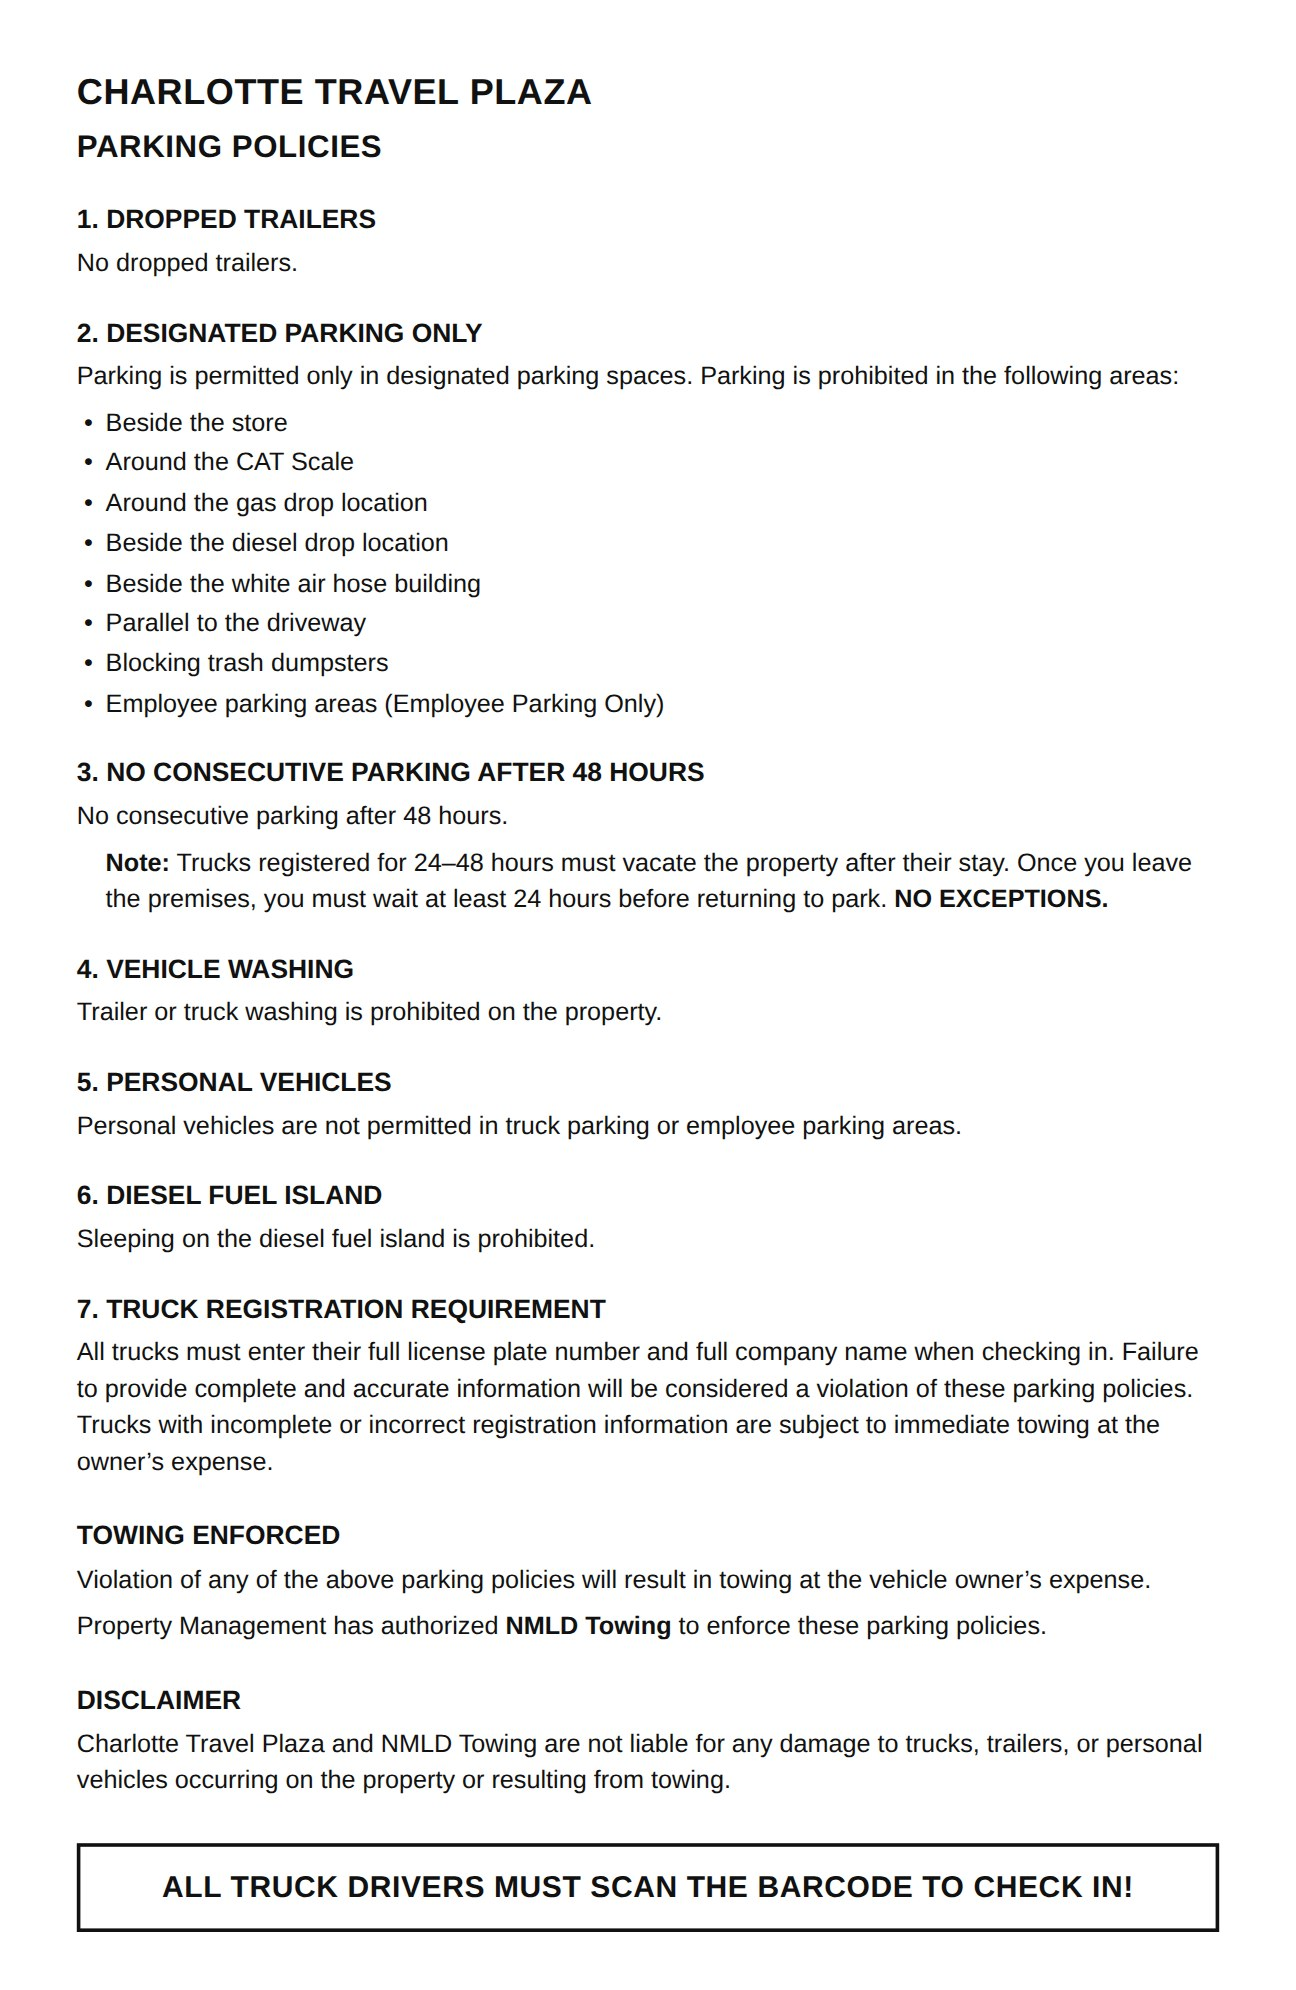
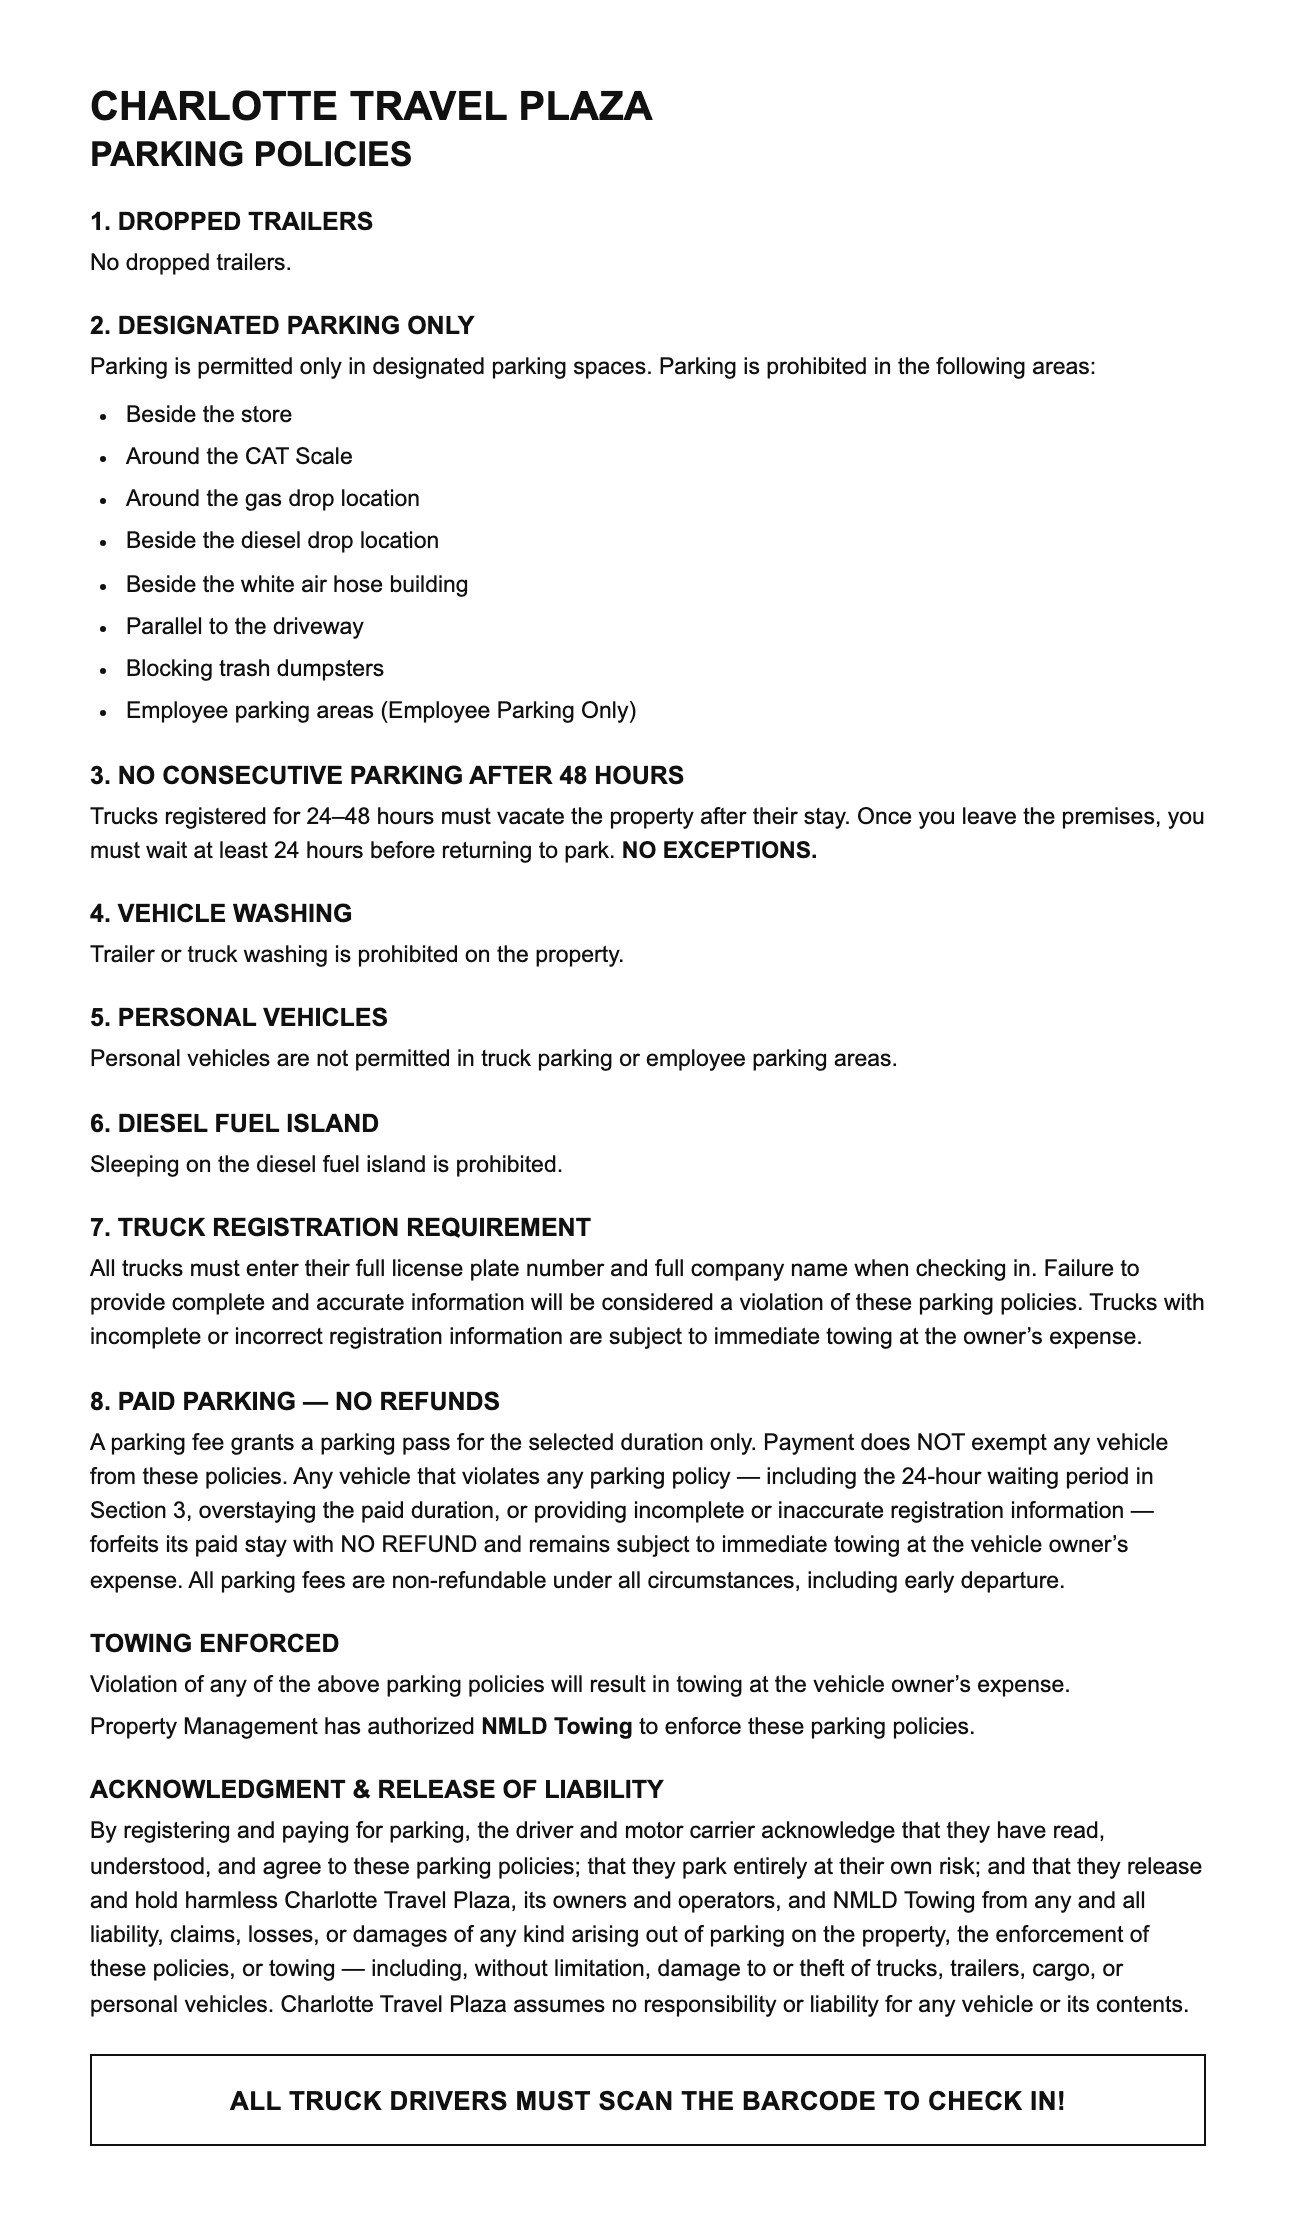
chore(plaza): regenerate rules document image with section 8 + release
Charlotte Travel Plaza policy DB text now includes section 8 (Paid
Parking — No Refunds) and an expanded Acknowledgment & Release of
Liability closing block; the printed-document image on the QR
registration page was stale. Regenerated from a self-contained HTML
source (charlotte-travel-plaza.src.html) rendered via Playwright to
match the prior document's look. Old image kept for reference as
charlotte-travel-plaza.2026-04.jpg.

Claude-Session: https://claude.ai/code/session_012CxJpLkSpNFeXLVTrUfhWo

diff --git a/frontend/policy/charlotte-travel-plaza.src.html b/frontend/policy/charlotte-travel-plaza.src.html
@@ -1,0 +1,139 @@
+<!DOCTYPE html>
+<html>
+<head>
+<meta charset="utf-8">
+<style>
+  * { box-sizing: border-box; }
+  html, body {
+    margin: 0;
+    padding: 0;
+    background: #FFFFFF;
+  }
+  body {
+    width: 648px; /* rendered at deviceScaleFactor 2 -> 1296px physical, matching prior doc width */
+    font-family: Arial, Helvetica, sans-serif;
+    color: #111111;
+    padding: 42px 45px 45px 45px;
+  }
+  h1 {
+    font-size: 20px;
+    font-weight: 700;
+    margin: 0 0 3px 0;
+    letter-spacing: 0.1px;
+  }
+  h2.subtitle {
+    font-size: 17px;
+    font-weight: 700;
+    margin: 0 0 16px 0;
+  }
+  .section {
+    margin: 0 0 16px 0;
+  }
+  .section h3 {
+    font-size: 12.5px;
+    font-weight: 700;
+    margin: 0 0 5px 0;
+  }
+  .section p {
+    font-size: 11.5px;
+    line-height: 1.5;
+    margin: 0 0 4px 0;
+  }
+  ul.rules {
+    margin: 6px 0 0 0;
+    padding: 0 0 0 18px;
+    list-style: disc;
+  }
+  ul.rules li {
+    font-size: 11.5px;
+    line-height: 1.5;
+    margin-bottom: 4px;
+  }
+  .caps {
+    text-transform: uppercase;
+  }
+  .box {
+    border: 1.5px solid #111111;
+    padding: 13px 16px;
+    margin-top: 12px;
+    text-align: center;
+  }
+  .box strong {
+    font-size: 13px;
+    font-weight: 700;
+    letter-spacing: 0.2px;
+  }
+</style>
+</head>
+<body>
+
+  <h1 class="caps">Charlotte Travel Plaza</h1>
+  <h2 class="subtitle caps">Parking Policies</h2>
+
+  <div class="section">
+    <h3 class="caps">1. Dropped Trailers</h3>
+    <p>No dropped trailers.</p>
+  </div>
+
+  <div class="section">
+    <h3 class="caps">2. Designated Parking Only</h3>
+    <p>Parking is permitted only in designated parking spaces. Parking is prohibited in the following areas:</p>
+    <ul class="rules">
+      <li>Beside the store</li>
+      <li>Around the CAT Scale</li>
+      <li>Around the gas drop location</li>
+      <li>Beside the diesel drop location</li>
+      <li>Beside the white air hose building</li>
+      <li>Parallel to the driveway</li>
+      <li>Blocking trash dumpsters</li>
+      <li>Employee parking areas (Employee Parking Only)</li>
+    </ul>
+  </div>
+
+  <div class="section">
+    <h3 class="caps">3. No Consecutive Parking After 48 Hours</h3>
+    <p>Trucks registered for 24&ndash;48 hours must vacate the property after their stay. Once you leave the premises, you must wait at least 24 hours before returning to park. <strong>NO EXCEPTIONS.</strong></p>
+  </div>
+
+  <div class="section">
+    <h3 class="caps">4. Vehicle Washing</h3>
+    <p>Trailer or truck washing is prohibited on the property.</p>
+  </div>
+
+  <div class="section">
+    <h3 class="caps">5. Personal Vehicles</h3>
+    <p>Personal vehicles are not permitted in truck parking or employee parking areas.</p>
+  </div>
+
+  <div class="section">
+    <h3 class="caps">6. Diesel Fuel Island</h3>
+    <p>Sleeping on the diesel fuel island is prohibited.</p>
+  </div>
+
+  <div class="section">
+    <h3 class="caps">7. Truck Registration Requirement</h3>
+    <p>All trucks must enter their full license plate number and full company name when checking in. Failure to provide complete and accurate information will be considered a violation of these parking policies. Trucks with incomplete or incorrect registration information are subject to immediate towing at the owner&rsquo;s expense.</p>
+  </div>
+
+  <div class="section">
+    <h3 class="caps">8. Paid Parking &mdash; No Refunds</h3>
+    <p>A parking fee grants a parking pass for the selected duration only. Payment does NOT exempt any vehicle from these policies. Any vehicle that violates any parking policy &mdash; including the 24-hour waiting period in Section 3, overstaying the paid duration, or providing incomplete or inaccurate registration information &mdash; forfeits its paid stay with NO REFUND and remains subject to immediate towing at the vehicle owner&rsquo;s expense. All parking fees are non-refundable under all circumstances, including early departure.</p>
+  </div>
+
+  <div class="section">
+    <h3 class="caps">Towing Enforced</h3>
+    <p>Violation of any of the above parking policies will result in towing at the vehicle owner&rsquo;s expense.</p>
+    <p>Property Management has authorized <strong>NMLD Towing</strong> to enforce these parking policies.</p>
+  </div>
+
+  <div class="section">
+    <h3 class="caps">Acknowledgment &amp; Release of Liability</h3>
+    <p>By registering and paying for parking, the driver and motor carrier acknowledge that they have read, understood, and agree to these parking policies; that they park entirely at their own risk; and that they release and hold harmless Charlotte Travel Plaza, its owners and operators, and NMLD Towing from any and all liability, claims, losses, or damages of any kind arising out of parking on the property, the enforcement of these policies, or towing &mdash; including, without limitation, damage to or theft of trucks, trailers, cargo, or personal vehicles. Charlotte Travel Plaza assumes no responsibility or liability for any vehicle or its contents.</p>
+  </div>
+
+  <div class="box">
+    <strong class="caps">All truck drivers must scan the barcode to check in!</strong>
+  </div>
+
+</body>
+</html>
